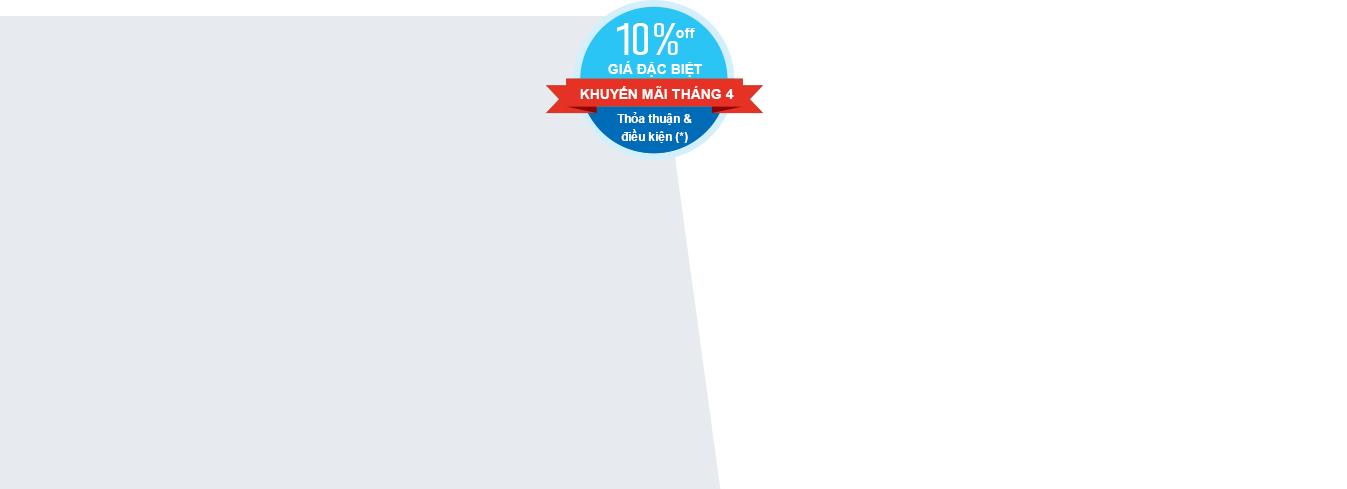
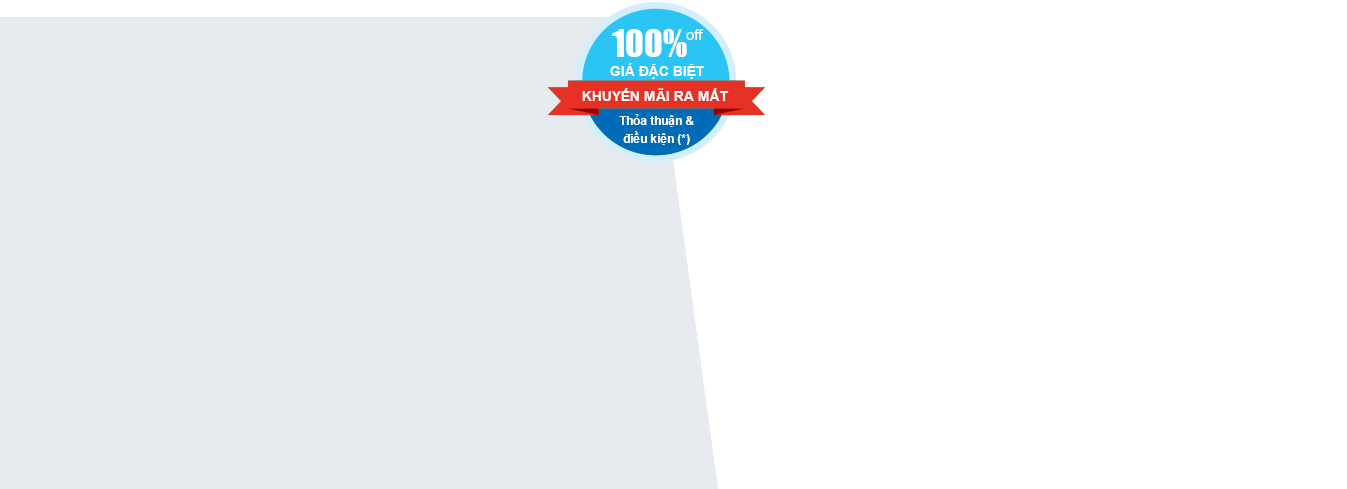
z

Changed region(s): [[0.4053, 0.0, 0.5612, 0.3374]]

diff --git a/public/cungunglaodong/assets/css/style.css b/public/cungunglaodong/assets/css/style.css
@@ -356,3 +356,7 @@ a.decoration,a.decoration:hover, .decoration a, .decoration a:hover {text-decora
 .support ul li {padding: 3px 0;}
 /* SIDEBAR */
 .widget {background: #f1f5f8; padding: 15px 20px;}
+.partners img {
+  width: 237px;
+  height: 124px;
+}

diff --git a/app/views/employers/launching.blade.php b/app/views/employers/launching.blade.php
@@ -53,7 +53,7 @@
 			<div class="newest-sale">
 				<div class="full-page">
 					<h4 class="sale-title">
-						(<span class="text-required">*</span>) Chương trình giảm giá đặc biệt này kéo dài tới ngày 30 Tháng 4 và chỉ áp dụng cho đơn hàng trực tuyến. (Không áp dụng với các chương trình khuyến mãi khác).
+						(<span class="text-required">*</span>) Chương trình giảm giá đặc biệt kéo dài trong 30 ngày và áp dụng cho tất cả các đơn hàng.
 					</h4>
 				</div>
 			</div>

diff --git a/app/views/cungunglaodong/home.blade.php b/app/views/cungunglaodong/home.blade.php
@@ -110,7 +110,7 @@
 						<ul>
 							@foreach($data as $value)
 							<li class="col-sm-3">
-								<a href="{{$value['link']}}" title="{{$value['name']}}">{{HTML::image(URL::to('uploads/cungunglaodong/'.$value['thumbnail'].''),$value['name'])}}</a>
+								<a href="{{$value['link']}}" target="_blank" title="{{$value['name']}}">{{HTML::image(URL::to('uploads/cungunglaodong/'.$value['thumbnail'].''),$value['name'])}}</a>
 							</li>
 							@endforeach
 						</ul>
